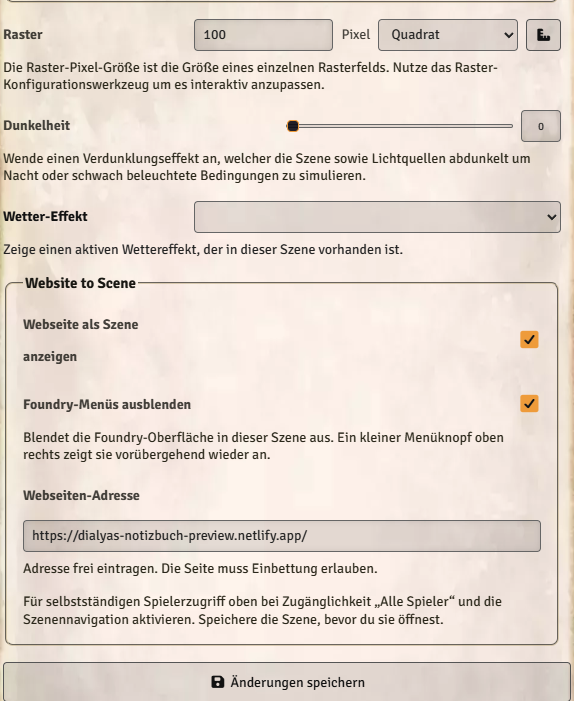
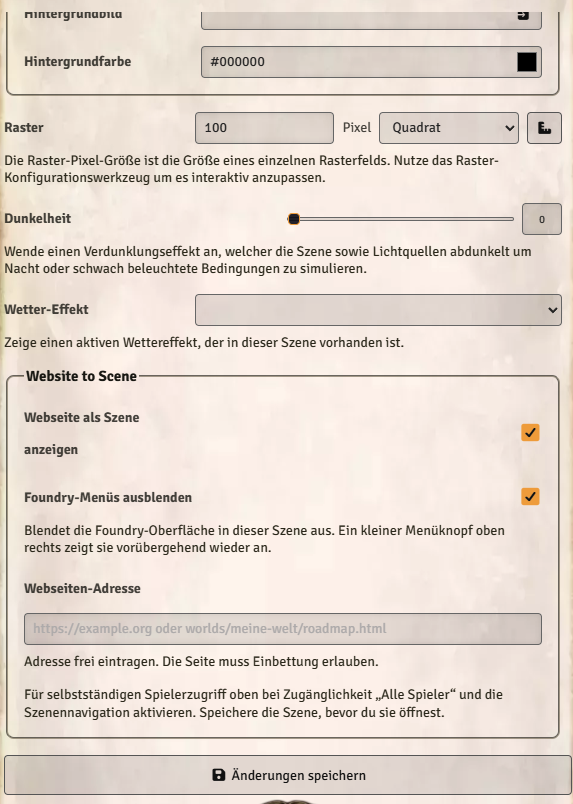
docs(readme): use updated scene screenshot
Replace the README and packaged image with the latest user-provided scene settings screenshot. Validate all 26 tests, source checks and the rebuilt release assets.

Changed region(s): [[0.0, 0.0, 1.0, 1.0]]

diff --git a/CHANGELOG.md b/CHANGELOG.md
@@ -3,7 +3,7 @@
 ## 1.0.1 – 2026-10-09
 
 - Öffentliche GitHub-Veröffentlichung mit direkter Installation und Updates über die Manifest-URL.
-- Deutsche und englische README-Anleitung mit Sprachwechsel- und Rücksprunglinks; vorhandenes Szenenbild bleibt enthalten.
+- Deutsche und englische README-Anleitung mit Sprachwechsel- und Rücksprunglinks sowie aktualisiertem Szenenbild aus der letzten Nutzeraufnahme.
 - Öffentliche Modulbeschreibung und Entwicklungs-/Release-Dokumentation angepasst.
 - CodeQL aus dem Referenzablauf ergänzt; jeder Release verlangt einen erfolgreichen Sicherheitscheck sowie die bisherigen Tests und Paketprüfungen.
 - Browser-Testserver liefert ausschließlich drei fest definierte Testdateien; keine Dateipfade aus HTTP-Anfragen.
